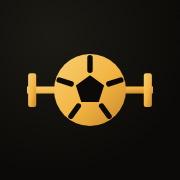
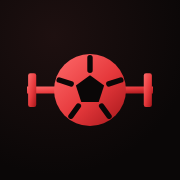
Thème Rouge (noir et rouge) et icône de l'appli en noir et rouge
- Nouveau thème Rouge ; alertes en orange dans ce thème pour rester distinctes de l'accent
- Bordures d'alerte basées sur la couleur d'alerte du thème
- Icônes (192, 512, masquable, iPhone, favicon) et couleurs du manifeste en noir et rouge

Claude-Session: https://claude.ai/code/session_015bM6UxA1e7RC3ZrNAPZnQA

Changed region(s): [[0.1389, 0.2778, 0.8611, 0.7222]]

diff --git a/plateforme/src/app/globals.css b/plateforme/src/app/globals.css
@@ -249,7 +249,7 @@ input, textarea, select { font: inherit; color: inherit; }
 }
 .pill-gold { background: var(--gold-soft); border-color: var(--gold-line); color: var(--gold); }
 .pill-ok { background: var(--ok-soft); border-color: rgba(76, 195, 138, 0.35); color: var(--ok); }
-.pill-ko { background: var(--ko-soft); border-color: rgba(240, 96, 93, 0.35); color: var(--ko); }
+.pill-ko { background: var(--ko-soft); border-color: color-mix(in srgb, var(--ko) 35%, transparent); color: var(--ko); }
 .dot { width: 7px; height: 7px; border-radius: 50%; background: currentColor; flex: none; }
 .cat { display: inline-grid; place-items: center; width: 20px; height: 20px; border-radius: 6px; font-size: 10.5px; font-weight: 700; font-family: var(--font-oswald); }
 .cat-S { background: var(--ko-soft); color: var(--ko); }
@@ -263,7 +263,7 @@ input, textarea, select { font: inherit; color: inherit; }
 }
 .note-icon { flex: none; width: 30px; height: 30px; border-radius: 9px; display: grid; place-items: center; background: var(--surface-3); color: var(--gold); }
 .note-ok .note-icon { background: var(--ok-soft); color: var(--ok); }
-.note-ko { border-color: rgba(240, 96, 93, 0.35); background: linear-gradient(180deg, rgba(240, 96, 93, 0.07), var(--surface)); }
+.note-ko { border-color: color-mix(in srgb, var(--ko) 35%, transparent); background: linear-gradient(180deg, color-mix(in srgb, var(--ko) 7%, transparent), var(--surface)); }
 .note-ko .note-icon { background: var(--ko-soft); color: var(--ko); }
 .note-gold .note-icon { background: var(--gold-soft); color: var(--gold); }
 .note b { font-weight: 600; }
@@ -519,6 +519,16 @@ details.session[open] .chev { transform: rotate(90deg); }
 /* ═══ THÈMES DE COULEUR ═════════════════════════════════
    « Or » est le thème par défaut (:root). Chaque thème ne
    redéfinit que ses teintes ; la structure reste identique. */
+:root[data-theme="rouge"] {
+  --a: 229 56 59; --bg-rgb: 10 7 7; --sf-rgb: 21 15 15;
+  --bg: #0a0707; --surface: #150f0f; --surface-2: #1d1414; --surface-3: #281b1b;
+  --gold: #e5383b; --gold-deep: #a4161a; --gold-light: #ff6b6b; --gold-ink: #ffffff;
+  --gold-soft: rgba(229, 56, 59, 0.12); --gold-line: rgba(229, 56, 59, 0.38); --gold-text: #ff9c9c;
+  --hero-1: #210c0c; --hero-2: #120808; --auth-bg: #100707;
+  --ink: #f6eeee; --ink-2: #c7b7b7; --muted: #8d7c7c; --placeholder: #655454;
+  /* L'accent est déjà rouge : les alertes passent en orange pour rester distinctes */
+  --ko: #ff9f43; --ko-soft: rgba(255, 159, 67, 0.1);
+}
 :root[data-theme="rose"] {
   --a: 247 143 179; --bg-rgb: 12 7 10; --sf-rgb: 23 15 19;
   --bg: #0c070a; --surface: #170f13; --surface-2: #1f151a; --surface-3: #2a1c23;
@@ -559,7 +569,7 @@ details.session[open] .chev { transform: rotate(90deg); }
 }
 
 /* Sélecteur de couleurs (Profil) */
-.themes { display: grid; grid-template-columns: repeat(5, 1fr); gap: 10px; }
+.themes { display: grid; grid-template-columns: repeat(auto-fill, minmax(62px, 1fr)); gap: 10px; }
 .theme-opt { display: flex; flex-direction: column; align-items: center; gap: 8px; padding: 12px 4px 10px; border-radius: var(--r-md); border: 1px solid var(--line); background: var(--surface-2); font-size: 12.5px; color: var(--ink-2); transition: border-color 0.2s, background 0.2s; }
 .theme-opt:hover { border-color: var(--line-strong); }
 .theme-opt.on { border-color: var(--gold); color: var(--ink); background: var(--gold-soft); }

diff --git a/plateforme/src/lib/i18n/ui.ts b/plateforme/src/lib/i18n/ui.ts
@@ -5,7 +5,7 @@ const s = (n: number) => (n > 1 ? "s" : "");
 
 export const UI_FR = {
   langue: "Langue",
-  theme: { titre: "Couleurs", aide: "Choisis l'ambiance de ton appli. Elle change tout de suite, sur ce téléphone.", noms: { or: "Or", rose: "Rose", lilas: "Lilas", peche: "Pêche", blush: "Blush" } },
+  theme: { titre: "Couleurs", aide: "Choisis l'ambiance de ton appli. Elle change tout de suite, sur ce téléphone.", noms: { or: "Or", rouge: "Rouge", rose: "Rose", lilas: "Lilas", peche: "Pêche", blush: "Blush" } },
   /* Navigation */
   nav: { accueil: "Accueil", programme: "Programme", seance: "Séance", progression: "Progression", profil: "Profil", coach: "Coach", mesClients: "Mes clients", coaching: "Coaching", deconnexion: "Se déconnecter", coachRole: "Coach", clientRole: "Client", monProfil: "Mon profil", entrainement: "Entraînement", outils: "Outils", exercices: "Exercices", chrono: "Chrono" },
   /* Connexion */
@@ -390,7 +390,7 @@ export type TextesUI = typeof UI_FR;
 
 export const UI_EN: TextesUI = {
   langue: "Language",
-  theme: { titre: "Colours", aide: "Pick the look of your app. It changes right away, on this phone.", noms: { or: "Gold", rose: "Pink", lilas: "Lilac", peche: "Peach", blush: "Blush" } },
+  theme: { titre: "Colours", aide: "Pick the look of your app. It changes right away, on this phone.", noms: { or: "Gold", rouge: "Red", rose: "Pink", lilas: "Lilac", peche: "Peach", blush: "Blush" } },
   nav: { accueil: "Home", programme: "Program", seance: "Workout", progression: "Progress", profil: "Profile", coach: "Coach", mesClients: "My clients", coaching: "Coaching", deconnexion: "Log out", coachRole: "Coach", clientRole: "Client", monProfil: "My profile", entrainement: "Training", outils: "Tools", exercices: "Exercises", chrono: "Timer" },
   auth: {
     citation: ["Discipline today, ", "results tomorrow."],

diff --git a/plateforme/src/lib/theme/index.ts b/plateforme/src/lib/theme/index.ts
@@ -1,5 +1,5 @@
 /* Thèmes de couleur : choisis par chaque client, mémorisés sur son appareil */
-export const THEMES = ["or", "rose", "lilas", "peche", "blush"] as const;
+export const THEMES = ["or", "rouge", "rose", "lilas", "peche", "blush"] as const;
 export type Theme = (typeof THEMES)[number];
 export const COOKIE_THEME = "ptmouss_theme";
 
@@ -8,6 +8,7 @@ export const lireTheme = (v?: string | null): Theme => (THEMES as readonly strin
 /** Aperçu du sélecteur (fond, accent) et couleur de la barre du téléphone */
 export const APERCU: Record<Theme, { fond: string; accent: string; barre: string }> = {
   or: { fond: "#111114", accent: "#f2b441", barre: "#060607" },
+  rouge: { fond: "#1d1414", accent: "#e5383b", barre: "#0a0707" },
   rose: { fond: "#1f151a", accent: "#f78fb3", barre: "#0c070a" },
   lilas: { fond: "#1a1724", accent: "#b9a2ff", barre: "#09080e" },
   peche: { fond: "#1d1714", accent: "#ff9b7d", barre: "#0b0807" },

diff --git a/plateforme/src/app/(app)/coach/page.tsx b/plateforme/src/app/(app)/coach/page.tsx
@@ -65,7 +65,7 @@ export default async function Page() {
         ) : (
           <div className="stack">
             {lignes.map((l) => (
-              <Link key={l.id} href={`/coach/${l.id}`} className="panel client-row" style={l.gravite === 2 ? { borderColor: "rgba(240,96,93,.4)" } : undefined}>
+              <Link key={l.id} href={`/coach/${l.id}`} className="panel client-row" style={l.gravite === 2 ? { borderColor: "color-mix(in srgb, var(--ko) 40%, transparent)" } : undefined}>
                 <Avatar url={l.avatar} nom={l.prenom} style={l.gravite === 2 ? { borderColor: "var(--ko)", color: "var(--ko)", boxShadow: "0 0 0 2px var(--ko)" } : undefined} />
                 <div style={{ minWidth: 0 }}>
                   <div className="row-title" style={{ fontSize: 16 }}>{l.prenom || T.coach.sansPrenom}</div>

diff --git a/plateforme/src/app/(app)/programme/page.tsx b/plateforme/src/app/(app)/programme/page.tsx
@@ -95,7 +95,7 @@ export default async function Page() {
         </div>
         <div className="grid-2">
           {P.days.map((d, di) => (
-            <article key={d.d} className="panel day-card" style={d.crit ? { borderColor: "rgba(240,96,93,.35)" } : undefined}>
+            <article key={d.d} className="panel day-card" style={d.crit ? { borderColor: "color-mix(in srgb, var(--ko) 35%, transparent)" } : undefined}>
               <div className="day-head">
                 <span className="day-code" style={d.crit ? { color: "var(--ko)" } : undefined}>{d.d}</span>
                 <span className="day-focus">{d.f}</span>

diff --git a/plateforme/src/app/manifest.ts b/plateforme/src/app/manifest.ts
@@ -6,8 +6,8 @@ export default function manifest(): MetadataRoute.Manifest {
     short_name: "Baara",
     start_url: "/",
     display: "standalone",
-    background_color: "#060607",
-    theme_color: "#060607",
+    background_color: "#0a0707",
+    theme_color: "#0a0707",
     icons: [
       { src: "/icon-192.png", sizes: "192x192", type: "image/png" },
       { src: "/icon-512.png", sizes: "512x512", type: "image/png" },
